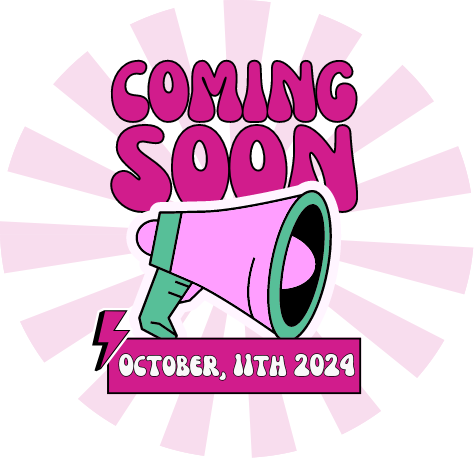
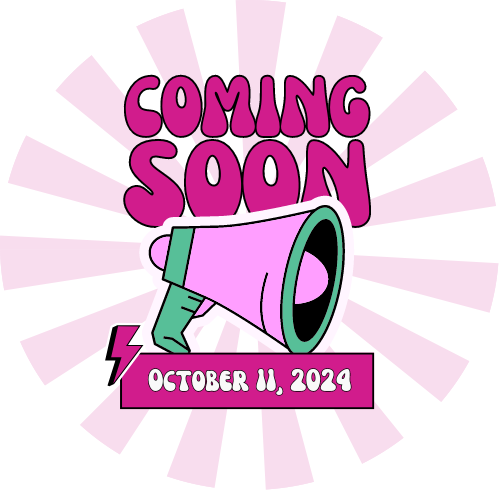
upcoming event added

diff --git a/_site/news.html b/_site/news.html
@@ -90,12 +90,54 @@
             <div class="box">
                 <div class="col-lg-12">
                    
-                    <h2 class="intro-text text-center">Upcoming Events
-                    </h2>
-                    <br>
-                    <img class="img-center" src="../img/coming soon October.png"/>
+                    <h3 class="intro-text text-center">Upcoming Events
+                    </h3>
                 </div>
-                <br>
+                <div class="col-lg-12 text-center">
+                  <!-- <img class="img-responsive img-border img-full" src="img/discuss.jpeg" alt="Tulip"> -->
+                  <h2>2nd WORKSHOP OF Tübingen Women in Machine Learning</h2> 
+                  <h3 style="font-size: medium">Bridging industry and academia</h3>
+                  <h3>October 11, 2024</h3>
+                  <h3 class="intro-text" style="font-size: medium">tentative schedule</h3>
+                </div>
+                <div style="width: 50%;position: relative;top: 35%;left: 50%;transform: translate(-50%, -50%);">
+                  <table class="table table-sm table-striped">
+                    <thead>
+                      <tr>
+                        <th scope="col"></th>
+                        <th scope="col"></th>
+                      </tr>
+                    </thead>
+                    <tbody>
+                      <tr>
+                        <!-- <th scope="row"></th> -->
+                        <td><b>9:00-11:30</b></td>
+                        <td><b>Invited talks</b></td>
+                      </tr>
+                      <tr>
+                        <!-- <th scope="row"></th> -->
+                        <td><b>11:30-12:30</b></td>
+                        <td><b>Science speed dating</b></td>
+                      </tr>
+                      <tr>
+                        <!-- <th scope="row"></th> -->
+                        <td><b>12:30-13:30</b></td>
+                        <td><b>Lunch</b></td>
+                      </tr>
+                      <tr>
+                        <!-- <th scope="row"></th> -->
+                        <td><b>13:30-15:30</b></td>
+                        <td><b>Poster session</b></td>
+                      </tr>
+                      <tr>
+                        <!-- <th scope="row"></th> -->
+                        <td><b>15:30-16:30</b></td>
+                        <td><b>Panel discussion</b></td>
+                      </tr>
+                    </tbody>
+                  </table>
+                  <!-- <a href="#" class="btn btn-default btn-lg">Read More</a> -->
+              </div>
                 
                 <br>
                 <div class="col-lg-12">
@@ -107,7 +149,7 @@
                     <h2> Workshop for International Women's day
                     </h2>
                     <h3 style="font-size: medium">Machine Learning from Theory to Application</h3>
-                    <h3>March 8th, 2024</h3>
+                    <h3>March 8, 2024</h3>
                     <!-- <a href="#" class="btn btn-default btn-lg">Read More</a> -->
                 </div>
                 </div>        

diff --git a/_includes/news.html b/_includes/news.html
@@ -3,12 +3,54 @@
             <div class="box">
                 <div class="col-lg-12">
                    
-                    <h2 class="intro-text text-center">Upcoming Events
-                    </h2>
-                    <br>
-                    <img class="img-center" src="../img/coming soon October.png"/>
+                    <h3 class="intro-text text-center">Upcoming Events
+                    </h3>
                 </div>
-                <br>
+                <div class="col-lg-12 text-center">
+                  <!-- <img class="img-responsive img-border img-full" src="img/discuss.jpeg" alt="Tulip"> -->
+                  <h2>2nd WORKSHOP OF Tübingen Women in Machine Learning</h2> 
+                  <h3 style="font-size: medium">Bridging industry and academia</h3>
+                  <h3>October 11, 2024</h3>
+                  <h3 class="intro-text" style="font-size: medium">tentative schedule</h3>
+                </div>
+                <div style="width: 50%;position: relative;top: 35%;left: 50%;transform: translate(-50%, -50%);">
+                  <table class="table table-sm table-striped">
+                    <thead>
+                      <tr>
+                        <th scope="col"></th>
+                        <th scope="col"></th>
+                      </tr>
+                    </thead>
+                    <tbody>
+                      <tr>
+                        <!-- <th scope="row"></th> -->
+                        <td><b>9:00-11:30</b></td>
+                        <td><b>Invited talks</b></td>
+                      </tr>
+                      <tr>
+                        <!-- <th scope="row"></th> -->
+                        <td><b>11:30-12:30</b></td>
+                        <td><b>Science speed dating</b></td>
+                      </tr>
+                      <tr>
+                        <!-- <th scope="row"></th> -->
+                        <td><b>12:30-13:30</b></td>
+                        <td><b>Lunch</b></td>
+                      </tr>
+                      <tr>
+                        <!-- <th scope="row"></th> -->
+                        <td><b>13:30-15:30</b></td>
+                        <td><b>Poster session</b></td>
+                      </tr>
+                      <tr>
+                        <!-- <th scope="row"></th> -->
+                        <td><b>15:30-16:30</b></td>
+                        <td><b>Panel discussion</b></td>
+                      </tr>
+                    </tbody>
+                  </table>
+                  <!-- <a href="#" class="btn btn-default btn-lg">Read More</a> -->
+              </div>
                 
                 <br>
                 <div class="col-lg-12">
@@ -20,7 +62,7 @@
                     <h2> Workshop for International Women's day
                     </h2>
                     <h3 style="font-size: medium">Machine Learning from Theory to Application</h3>
-                    <h3>March 8th, 2024</h3>
+                    <h3>March 8, 2024</h3>
                     <!-- <a href="#" class="btn btn-default btn-lg">Read More</a> -->
                 </div>
                 </div>        
